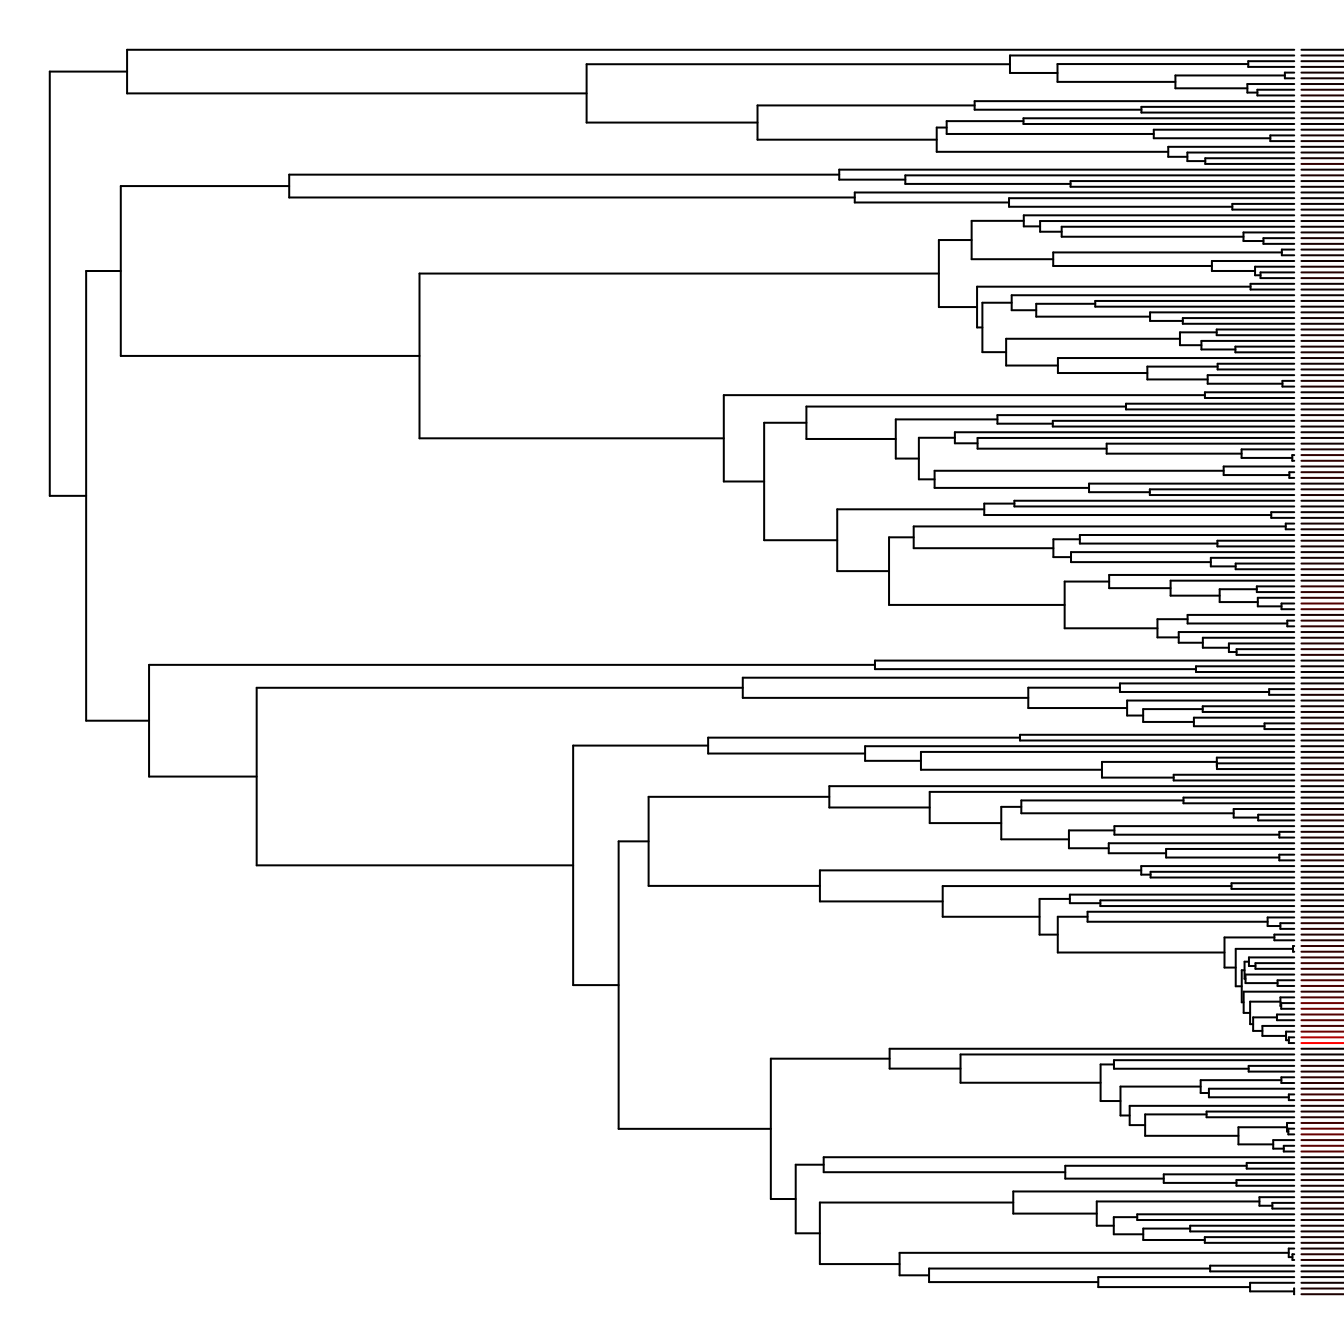
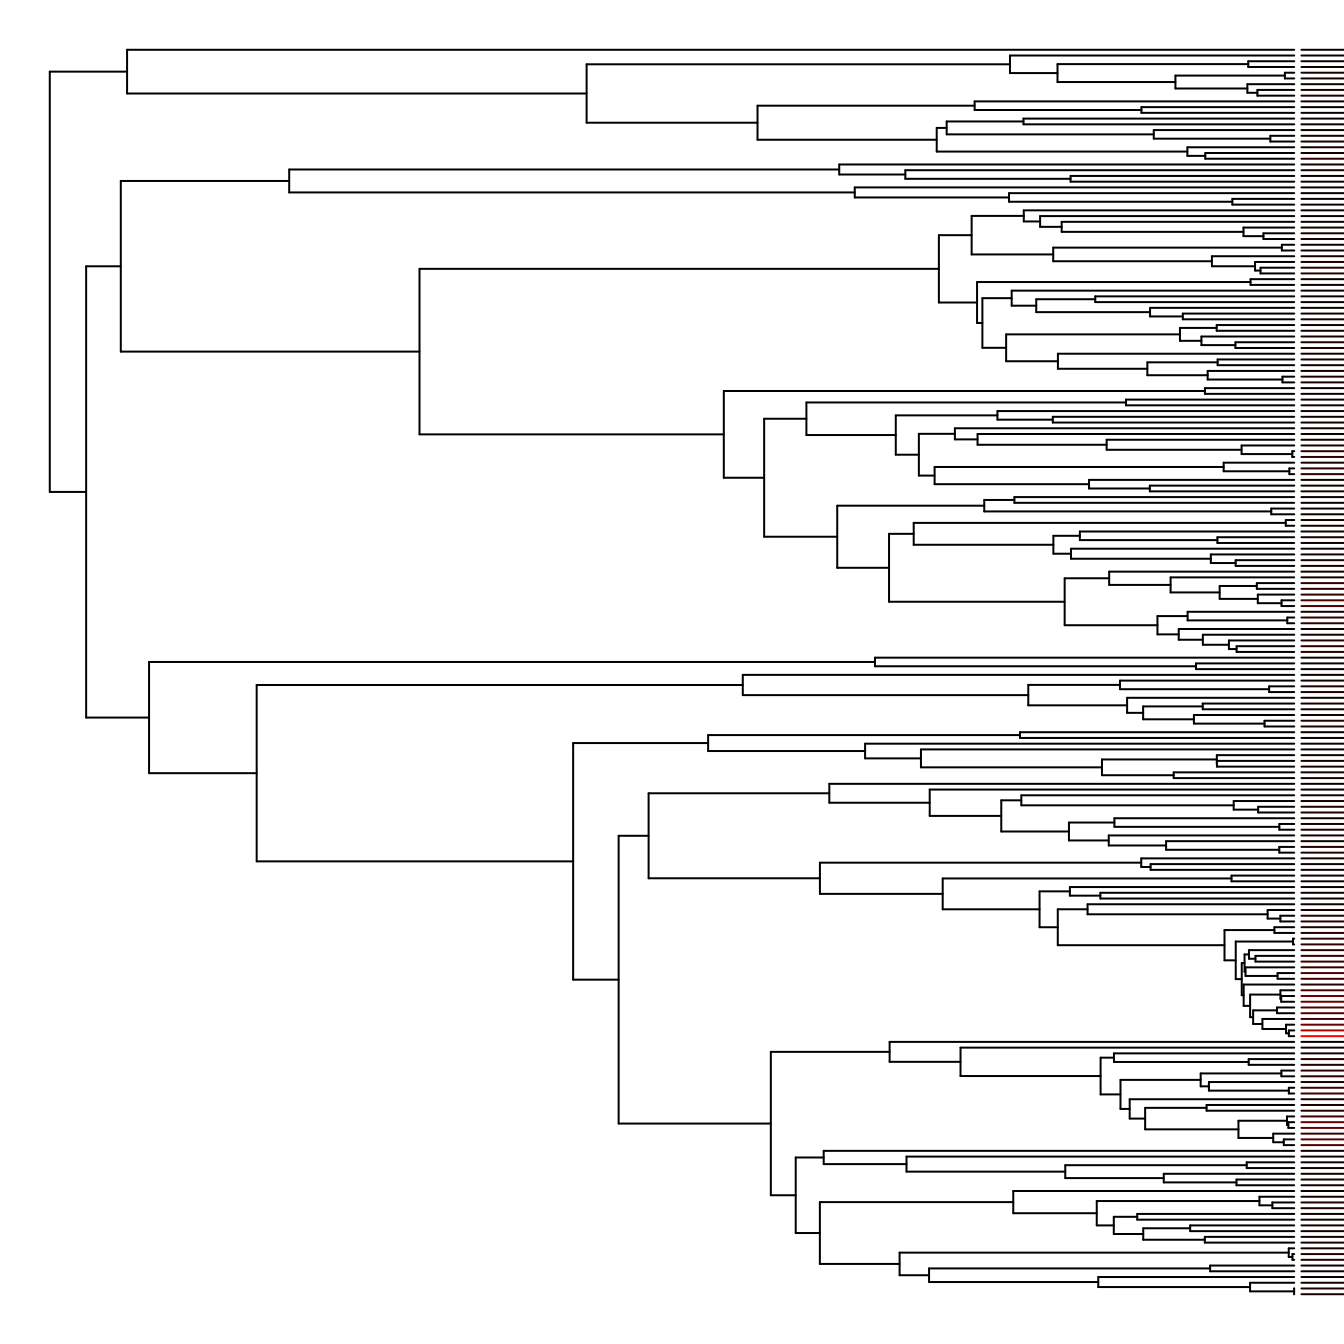
Built site for fishtree@0.3.4.9000: f06abfc

diff --git a/articles/comparative-analysis.html b/articles/comparative-analysis.html
@@ -104,7 +104,7 @@ among other things.</p>
 <span></span>
 <span><span class="va">fb_results</span> <span class="op">&lt;-</span> <span class="fu"><a href="https://docs.ropensci.org/rfishbase/reference/species.html" class="external-link">species</a></span><span class="op">(</span>species_list <span class="op">=</span> <span class="va">tips</span>, fields <span class="op">=</span> <span class="fu"><a href="https://rdrr.io/r/base/c.html" class="external-link">c</a></span><span class="op">(</span><span class="st">"Species"</span>, <span class="st">"DemersPelag"</span><span class="op">)</span><span class="op">)</span></span>
 <span><span class="co">#&gt; duckdb keeps downloaded extensions and secrets in a temporary directory:</span></span>
-<span><span class="co">#&gt; <span style="color: #0000BB;">ℹ</span> /tmp/RtmpnNgEHN/duckdb</span></span>
+<span><span class="co">#&gt; <span style="color: #0000BB;">ℹ</span> /tmp/RtmpWjDz53/duckdb</span></span>
 <span><span class="co">#&gt; This is removed when the R session ends.</span></span>
 <span><span class="co">#&gt; <span style="color: #00BBBB;">•</span> Extensions are re-downloaded each session.</span></span>
 <span><span class="co">#&gt; <span style="color: #00BBBB;">•</span> Secrets are lost.</span></span>
@@ -158,9 +158,9 @@ data object, so we will do that as well.</p>
 <span><span class="co">#&gt; $tree_not_data</span></span>
 <span><span class="co">#&gt;  [1] "Abalistes_stellaris"                   </span></span>
 <span><span class="co">#&gt;  [2] "Acanthostracion_polygonius"            </span></span>
-<span><span class="co">#&gt;  [3] "Chelonodon_patoca"                     </span></span>
-<span><span class="co">#&gt;  [4] "Chelonodon_pleurospilus"               </span></span>
-<span><span class="co">#&gt;  [5] "Chilomycterus_spinosus_spinosus"       </span></span>
+<span><span class="co">#&gt;  [3] "Chelonodon_pleurospilus"               </span></span>
+<span><span class="co">#&gt;  [4] "Chilomycterus_spinosus_spinosus"       </span></span>
+<span><span class="co">#&gt;  [5] "Colomesus_asellus"                     </span></span>
 <span><span class="co">#&gt;  [6] "Lagocephalus_lagocephalus_lagocephalus"</span></span>
 <span><span class="co">#&gt;  [7] "Meuschenia_scaber"                     </span></span>
 <span><span class="co">#&gt;  [8] "Monotrete_cochinchinensis"             </span></span>
@@ -170,22 +170,23 @@ data object, so we will do that as well.</p>
 <span><span class="co">#&gt; [12] "Ostracion_solorensis"                  </span></span>
 <span><span class="co">#&gt; [13] "Paramonacanthus_filicauda"             </span></span>
 <span><span class="co">#&gt; [14] "Rhinesomus_triqueter"                  </span></span>
-<span><span class="co">#&gt; [15] "Sphoeroides_cheesemanii"               </span></span>
-<span><span class="co">#&gt; [16] "Stephanolepis_auratus"                 </span></span>
-<span><span class="co">#&gt; [17] "Stephanolepis_hispidus"                </span></span>
-<span><span class="co">#&gt; [18] "Takifugu_fasciatus"                    </span></span>
-<span><span class="co">#&gt; [19] "Tetraodon_abei"                        </span></span>
-<span><span class="co">#&gt; [20] "Tetraodon_baileyi"                     </span></span>
-<span><span class="co">#&gt; [21] "Tetraodon_biocellatus"                 </span></span>
-<span><span class="co">#&gt; [22] "Tetraodon_cambodgiensis"               </span></span>
-<span><span class="co">#&gt; [23] "Tetraodon_cutcutia"                    </span></span>
-<span><span class="co">#&gt; [24] "Tetraodon_erythrotaenia"               </span></span>
-<span><span class="co">#&gt; [25] "Tetraodon_fluviatilis"                 </span></span>
-<span><span class="co">#&gt; [26] "Tetraodon_nigroviridis"                </span></span>
-<span><span class="co">#&gt; [27] "Tetraodon_palembangensis"              </span></span>
-<span><span class="co">#&gt; [28] "Tetraodon_suvattii"                    </span></span>
-<span><span class="co">#&gt; [29] "Tetraodon_turgidus"                    </span></span>
-<span><span class="co">#&gt; [30] "Tetrosomus_fornasini"                  </span></span>
+<span><span class="co">#&gt; [15] "Rhynchostracion_nasus"                 </span></span>
+<span><span class="co">#&gt; [16] "Sphoeroides_cheesemanii"               </span></span>
+<span><span class="co">#&gt; [17] "Stephanolepis_auratus"                 </span></span>
+<span><span class="co">#&gt; [18] "Stephanolepis_hispidus"                </span></span>
+<span><span class="co">#&gt; [19] "Takifugu_fasciatus"                    </span></span>
+<span><span class="co">#&gt; [20] "Tetraodon_abei"                        </span></span>
+<span><span class="co">#&gt; [21] "Tetraodon_baileyi"                     </span></span>
+<span><span class="co">#&gt; [22] "Tetraodon_biocellatus"                 </span></span>
+<span><span class="co">#&gt; [23] "Tetraodon_cambodgiensis"               </span></span>
+<span><span class="co">#&gt; [24] "Tetraodon_cutcutia"                    </span></span>
+<span><span class="co">#&gt; [25] "Tetraodon_erythrotaenia"               </span></span>
+<span><span class="co">#&gt; [26] "Tetraodon_fluviatilis"                 </span></span>
+<span><span class="co">#&gt; [27] "Tetraodon_nigroviridis"                </span></span>
+<span><span class="co">#&gt; [28] "Tetraodon_palembangensis"              </span></span>
+<span><span class="co">#&gt; [29] "Tetraodon_suvattii"                    </span></span>
+<span><span class="co">#&gt; [30] "Tetraodon_turgidus"                    </span></span>
+<span><span class="co">#&gt; [31] "Tetrosomus_fornasini"                  </span></span>
 <span><span class="co">#&gt; </span></span>
 <span><span class="co">#&gt; $data_not_tree</span></span>
 <span><span class="co">#&gt; character(0)</span></span></code></pre></div>
@@ -365,10 +366,10 @@ comparison.</p>
 <span></span>
 <span><span class="fu"><a href="https://rdrr.io/r/base/data.frame.html" class="external-link">data.frame</a></span><span class="op">(</span>model <span class="op">=</span> <span class="fu"><a href="https://rdrr.io/r/base/c.html" class="external-link">c</a></span><span class="op">(</span><span class="st">"bisse_full"</span>, <span class="st">"bisse_null"</span>, <span class="st">"hisse_cid2"</span>, <span class="st">"hisse_full"</span><span class="op">)</span>, <span class="va">aicc</span>, <span class="va">lnl</span><span class="op">)</span></span>
 <span><span class="co">#&gt;        model     aicc       lnl</span></span>
-<span><span class="co">#&gt; 1 bisse_full 1823.328 -906.5232</span></span>
-<span><span class="co">#&gt; 2 bisse_null 1821.332 -906.5726</span></span>
-<span><span class="co">#&gt; 3 hisse_cid2 1810.644 -901.2283</span></span>
-<span><span class="co">#&gt; 4 hisse_full 1813.123 -900.3632</span></span></code></pre></div>
+<span><span class="co">#&gt; 1 bisse_full 1821.419 -905.5677</span></span>
+<span><span class="co">#&gt; 2 bisse_null 1819.483 -905.6478</span></span>
+<span><span class="co">#&gt; 3 hisse_cid2 1808.042 -899.9269</span></span>
+<span><span class="co">#&gt; 4 hisse_full 1811.311 -899.4567</span></span></code></pre></div>
 <p>Summarizing the results on the basis of AICc suggests that the best
 supported model is a null model, where habitat has no effect on
 speciation rate.</p>

diff --git a/articles/community-analysis.html b/articles/community-analysis.html
@@ -88,7 +88,7 @@ or overdispersed in the Atlantic, Pacific, and Indian Oceans.</p>
 <code class="sourceCode R"><span><span class="co"># Get reef-associated species from the `species` table</span></span>
 <span><span class="va">species</span> <span class="op">&lt;-</span> <span class="fu">rfishbase</span><span class="fu">::</span><span class="fu"><a href="https://docs.ropensci.org/rfishbase/reference/fb_tbl.html" class="external-link">fb_tbl</a></span><span class="op">(</span><span class="st">"species"</span><span class="op">)</span></span>
 <span><span class="co">#&gt; duckdb keeps downloaded extensions and secrets in a temporary directory:</span></span>
-<span><span class="co">#&gt; <span style="color: #0000BB;">ℹ</span> /tmp/RtmpO6B3o6/duckdb</span></span>
+<span><span class="co">#&gt; <span style="color: #0000BB;">ℹ</span> /tmp/RtmpFvqJz9/duckdb</span></span>
 <span><span class="co">#&gt; This is removed when the R session ends.</span></span>
 <span><span class="co">#&gt; <span style="color: #00BBBB;">•</span> Extensions are re-downloaded each session.</span></span>
 <span><span class="co">#&gt; <span style="color: #00BBBB;">•</span> Secrets are lost.</span></span>
@@ -110,13 +110,13 @@ or overdispersed in the Atlantic, Pacific, and Indian Oceans.</p>
 <span></span>
 <span><span class="co"># Retrieve the phylogeny of only native reef species across all three oceans.</span></span>
 <span><span class="va">phy</span> <span class="op">&lt;-</span> <span class="fu"><a href="../reference/fishtree_phylogeny.html">fishtree_phylogeny</a></span><span class="op">(</span>species <span class="op">=</span> <span class="va">eco</span><span class="op">$</span><span class="va">Species</span><span class="op">)</span></span>
-<span><span class="co">#&gt; Warning: Requested 6449 but only found 4015 species.</span></span>
+<span><span class="co">#&gt; Warning: Requested 6492 but only found 4001 species.</span></span>
 <span><span class="co">#&gt; <span style="color: #00BBBB;">•</span> Scyris indica</span></span>
 <span><span class="co">#&gt; <span style="color: #00BBBB;">•</span> Lutjanus lemniscatus</span></span>
 <span><span class="co">#&gt; <span style="color: #00BBBB;">•</span> Lutjanus lunulatus</span></span>
 <span><span class="co">#&gt; <span style="color: #00BBBB;">•</span> Lutjanus timoriensis</span></span>
 <span><span class="co">#&gt; <span style="color: #00BBBB;">•</span> Macolor macularis</span></span>
-<span><span class="co">#&gt; <span style="color: #00BBBB;">•</span> ...and 2429 others</span></span></code></pre></div>
+<span><span class="co">#&gt; <span style="color: #00BBBB;">•</span> ...and 2486 others</span></span></code></pre></div>
 <p>We’ll have to clean up the data in a few ways before sending it to
 <code>picante</code> for analysis. First, we’ll need to convert our
 species-by-site data frame into a presence-absence matrix. We’ll use
@@ -145,23 +145,23 @@ and possibly test other null models if your datasets have e.g.,
 abundance information.</p>
 <div class="sourceCode" id="cb6"><pre class="downlit sourceCode r">
 <code class="sourceCode R"><span><span class="fu">picante</span><span class="fu">::</span><span class="fu"><a href="https://rdrr.io/pkg/picante/man/ses.mpd.html" class="external-link">ses.mpd</a></span><span class="op">(</span><span class="va">sample_matrix</span>, <span class="va">cophen</span>, null.model <span class="op">=</span> <span class="st">"taxa.labels"</span>, runs <span class="op">=</span> <span class="fl">99</span><span class="op">)</span></span>
-<span><span class="co">#&gt;                ntaxa  mpd.obs mpd.rand.mean mpd.rand.sd mpd.obs.rank mpd.obs.z</span></span>
-<span><span class="co">#&gt; Atlantic Ocean   586 238.9500      232.3225   2.1550001          100 3.0754117</span></span>
-<span><span class="co">#&gt; Indian Ocean    1228 233.3068      231.8851   1.0681389           86 1.3310253</span></span>
-<span><span class="co">#&gt; Pacific Ocean   1431 232.0734      232.0126   0.7815354           53 0.0776838</span></span>
+<span><span class="co">#&gt;                ntaxa  mpd.obs mpd.rand.mean mpd.rand.sd mpd.obs.rank  mpd.obs.z</span></span>
+<span><span class="co">#&gt; Atlantic Ocean   585 239.0055      232.1327   2.2346591          100 3.07554839</span></span>
+<span><span class="co">#&gt; Indian Ocean    1215 233.5489      232.4824   1.1748913           83 0.90779194</span></span>
+<span><span class="co">#&gt; Pacific Ocean   1419 232.2639      232.2036   0.9885731           53 0.06103204</span></span>
 <span><span class="co">#&gt;                mpd.obs.p runs</span></span>
 <span><span class="co">#&gt; Atlantic Ocean      1.00   99</span></span>
-<span><span class="co">#&gt; Indian Ocean        0.86   99</span></span>
+<span><span class="co">#&gt; Indian Ocean        0.83   99</span></span>
 <span><span class="co">#&gt; Pacific Ocean       0.53   99</span></span>
 <span><span class="fu">picante</span><span class="fu">::</span><span class="fu"><a href="https://rdrr.io/pkg/picante/man/ses.mntd.html" class="external-link">ses.mntd</a></span><span class="op">(</span><span class="va">sample_matrix</span>, <span class="va">cophen</span>, null.model <span class="op">=</span> <span class="st">"taxa.labels"</span>, runs <span class="op">=</span> <span class="fl">99</span><span class="op">)</span></span>
 <span><span class="co">#&gt;                ntaxa mntd.obs mntd.rand.mean mntd.rand.sd mntd.obs.rank</span></span>
-<span><span class="co">#&gt; Atlantic Ocean   586 42.12008       48.88476    1.4461655             1</span></span>
-<span><span class="co">#&gt; Indian Ocean    1228 34.33251       37.41040    0.6339495             1</span></span>
-<span><span class="co">#&gt; Pacific Ocean   1431 34.53339       35.15170    0.5522591            11</span></span>
+<span><span class="co">#&gt; Atlantic Ocean   585 42.15678       48.78075    1.6512804             1</span></span>
+<span><span class="co">#&gt; Indian Ocean    1215 34.37517       37.61213    0.6833006             1</span></span>
+<span><span class="co">#&gt; Pacific Ocean   1419 34.61914       35.35819    0.5180346            10</span></span>
 <span><span class="co">#&gt;                mntd.obs.z mntd.obs.p runs</span></span>
-<span><span class="co">#&gt; Atlantic Ocean  -4.677664       0.01   99</span></span>
-<span><span class="co">#&gt; Indian Ocean    -4.855091       0.01   99</span></span>
-<span><span class="co">#&gt; Pacific Ocean   -1.119589       0.11   99</span></span></code></pre></div>
+<span><span class="co">#&gt; Atlantic Ocean  -4.011414       0.01   99</span></span>
+<span><span class="co">#&gt; Indian Ocean    -4.737241       0.01   99</span></span>
+<span><span class="co">#&gt; Pacific Ocean   -1.426641       0.10   99</span></span></code></pre></div>
 <p>The Atlantic and Indian Oceans are overdispersed using the MPD
 metric, and all three oceans are clustered under the MNTD metric. MPD is
 thought to be more sensitive to patterns closer to the root of the tree,

diff --git a/articles/comparative-analysis.md b/articles/comparative-analysis.md
@@ -45,7 +45,7 @@ tips <- gsub("_", " ", tree$tip.label, fixed = TRUE)
 
 fb_results <- species(species_list = tips, fields = c("Species", "DemersPelag"))
 #> duckdb keeps downloaded extensions and secrets in a temporary directory:
-#> ℹ /tmp/RtmpnNgEHN/duckdb
+#> ℹ /tmp/RtmpWjDz53/duckdb
 #> This is removed when the R session ends.
 #> • Extensions are re-downloaded each session.
 #> • Secrets are lost.
@@ -109,9 +109,9 @@ nc
 #> $tree_not_data
 #>  [1] "Abalistes_stellaris"                   
 #>  [2] "Acanthostracion_polygonius"            
-#>  [3] "Chelonodon_patoca"                     
-#>  [4] "Chelonodon_pleurospilus"               
-#>  [5] "Chilomycterus_spinosus_spinosus"       
+#>  [3] "Chelonodon_pleurospilus"               
+#>  [4] "Chilomycterus_spinosus_spinosus"       
+#>  [5] "Colomesus_asellus"                     
 #>  [6] "Lagocephalus_lagocephalus_lagocephalus"
 #>  [7] "Meuschenia_scaber"                     
 #>  [8] "Monotrete_cochinchinensis"             
@@ -121,22 +121,23 @@ nc
 #> [12] "Ostracion_solorensis"                  
 #> [13] "Paramonacanthus_filicauda"             
 #> [14] "Rhinesomus_triqueter"                  
-#> [15] "Sphoeroides_cheesemanii"               
-#> [16] "Stephanolepis_auratus"                 
-#> [17] "Stephanolepis_hispidus"                
-#> [18] "Takifugu_fasciatus"                    
-#> [19] "Tetraodon_abei"                        
-#> [20] "Tetraodon_baileyi"                     
-#> [21] "Tetraodon_biocellatus"                 
-#> [22] "Tetraodon_cambodgiensis"               
-#> [23] "Tetraodon_cutcutia"                    
-#> [24] "Tetraodon_erythrotaenia"               
-#> [25] "Tetraodon_fluviatilis"                 
-#> [26] "Tetraodon_nigroviridis"                
-#> [27] "Tetraodon_palembangensis"              
-#> [28] "Tetraodon_suvattii"                    
-#> [29] "Tetraodon_turgidus"                    
-#> [30] "Tetrosomus_fornasini"                  
+#> [15] "Rhynchostracion_nasus"                 
+#> [16] "Sphoeroides_cheesemanii"               
+#> [17] "Stephanolepis_auratus"                 
+#> [18] "Stephanolepis_hispidus"                
+#> [19] "Takifugu_fasciatus"                    
+#> [20] "Tetraodon_abei"                        
+#> [21] "Tetraodon_baileyi"                     
+#> [22] "Tetraodon_biocellatus"                 
+#> [23] "Tetraodon_cambodgiensis"               
+#> [24] "Tetraodon_cutcutia"                    
+#> [25] "Tetraodon_erythrotaenia"               
+#> [26] "Tetraodon_fluviatilis"                 
+#> [27] "Tetraodon_nigroviridis"                
+#> [28] "Tetraodon_palembangensis"              
+#> [29] "Tetraodon_suvattii"                    
+#> [30] "Tetraodon_turgidus"                    
+#> [31] "Tetrosomus_fornasini"                  
 #> 
 #> $data_not_tree
 #> character(0)
@@ -358,10 +359,10 @@ lnl <- sapply(results, `[[`, "loglik")
 
 data.frame(model = c("bisse_full", "bisse_null", "hisse_cid2", "hisse_full"), aicc, lnl)
 #>        model     aicc       lnl
-#> 1 bisse_full 1823.328 -906.5232
-#> 2 bisse_null 1821.332 -906.5726
-#> 3 hisse_cid2 1810.644 -901.2283
-#> 4 hisse_full 1813.123 -900.3632
+#> 1 bisse_full 1821.419 -905.5677
+#> 2 bisse_null 1819.483 -905.6478
+#> 3 hisse_cid2 1808.042 -899.9269
+#> 4 hisse_full 1811.311 -899.4567
 ```
 
 Summarizing the results on the basis of AICc suggests that the best

diff --git a/articles/community-analysis.md b/articles/community-analysis.md
@@ -26,7 +26,7 @@ overdispersed in the Atlantic, Pacific, and Indian Oceans.
 # Get reef-associated species from the `species` table
 species <- rfishbase::fb_tbl("species")
 #> duckdb keeps downloaded extensions and secrets in a temporary directory:
-#> ℹ /tmp/RtmpO6B3o6/duckdb
+#> ℹ /tmp/RtmpFvqJz9/duckdb
 #> This is removed when the R session ends.
 #> • Extensions are re-downloaded each session.
 #> • Secrets are lost.
@@ -48,13 +48,13 @@ eco <- eco[valid_idx, c("Species", "EcosystemName")]
 
 # Retrieve the phylogeny of only native reef species across all three oceans.
 phy <- fishtree_phylogeny(species = eco$Species)
-#> Warning: Requested 6449 but only found 4015 species.
+#> Warning: Requested 6492 but only found 4001 species.
 #> • Scyris indica
 #> • Lutjanus lemniscatus
 #> • Lutjanus lunulatus
 #> • Lutjanus timoriensis
 #> • Macolor macularis
-#> • ...and 2429 others
+#> • ...and 2486 others
 ```
 
 We’ll have to clean up the data in a few ways before sending it to
@@ -100,23 +100,23 @@ models if your datasets have e.g., abundance information.
 ``` r
 
 picante::ses.mpd(sample_matrix, cophen, null.model = "taxa.labels", runs = 99)
-#>                ntaxa  mpd.obs mpd.rand.mean mpd.rand.sd mpd.obs.rank mpd.obs.z
-#> Atlantic Ocean   586 238.9500      232.3225   2.1550001          100 3.0754117
-#> Indian Ocean    1228 233.3068      231.8851   1.0681389           86 1.3310253
-#> Pacific Ocean   1431 232.0734      232.0126   0.7815354           53 0.0776838
+#>                ntaxa  mpd.obs mpd.rand.mean mpd.rand.sd mpd.obs.rank  mpd.obs.z
+#> Atlantic Ocean   585 239.0055      232.1327   2.2346591          100 3.07554839
+#> Indian Ocean    1215 233.5489      232.4824   1.1748913           83 0.90779194
+#> Pacific Ocean   1419 232.2639      232.2036   0.9885731           53 0.06103204
 #>                mpd.obs.p runs
 #> Atlantic Ocean      1.00   99
-#> Indian Ocean        0.86   99
+#> Indian Ocean        0.83   99
 #> Pacific Ocean       0.53   99
 picante::ses.mntd(sample_matrix, cophen, null.model = "taxa.labels", runs = 99)
 #>                ntaxa mntd.obs mntd.rand.mean mntd.rand.sd mntd.obs.rank
-#> Atlantic Ocean   586 42.12008       48.88476    1.4461655             1
-#> Indian Ocean    1228 34.33251       37.41040    0.6339495             1
-#> Pacific Ocean   1431 34.53339       35.15170    0.5522591            11
+#> Atlantic Ocean   585 42.15678       48.78075    1.6512804             1
+#> Indian Ocean    1215 34.37517       37.61213    0.6833006             1
+#> Pacific Ocean   1419 34.61914       35.35819    0.5180346            10
 #>                mntd.obs.z mntd.obs.p runs
-#> Atlantic Ocean  -4.677664       0.01   99
-#> Indian Ocean    -4.855091       0.01   99
-#> Pacific Ocean   -1.119589       0.11   99
+#> Atlantic Ocean  -4.011414       0.01   99
+#> Indian Ocean    -4.737241       0.01   99
+#> Pacific Ocean   -1.426641       0.10   99
 ```
 
 The Atlantic and Indian Oceans are overdispersed using the MPD metric,
